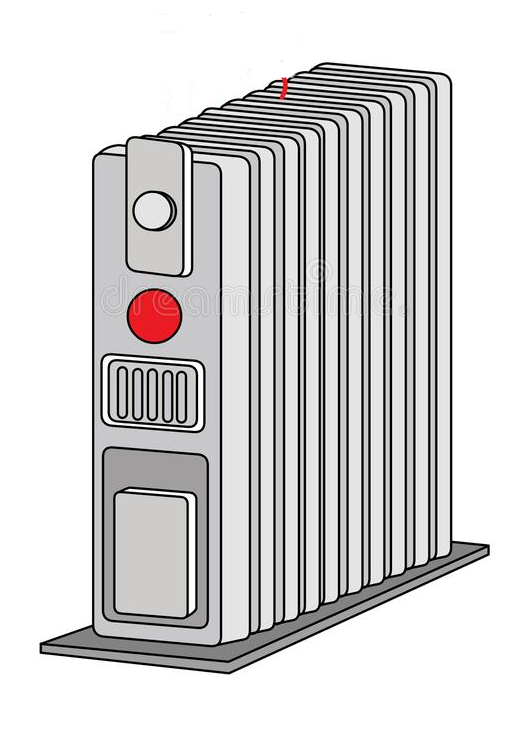
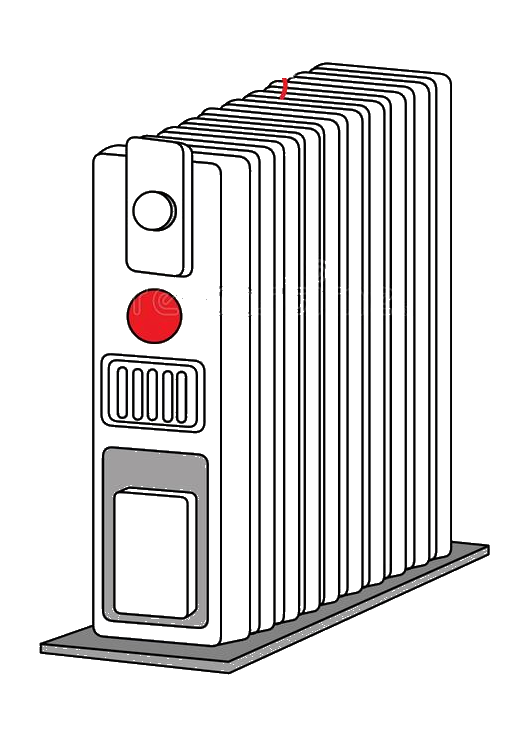
Simplified the code and corrected the transparency of one of a few images.

diff --git a/js/utils.js b/js/utils.js
@@ -21,7 +21,7 @@ function drawLineGraphs() {
 
 
     $.ajax({
-        url: "tempHumidityData.php",
+        url: "DataProcessor.php",
         async: false,
         type: "POST",
         success: function (data, status, xhr) {
@@ -55,35 +55,10 @@ function drawLineGraphs() {
             const chartU = new google.visualization.LineChart(document.getElementById('myGraph2'));
             chartU.draw(responseDataU, options);
 
-            /*const fanData = data.fanData;
-            const heatData = data.heatData;
-            const eheatData = data.eheatData;
+            $("#startTime").html(data.timeData.startTime);
+            $("#endTime").html(data.timeData.endTime);
+            $("#user").html(data.timeData.user);
 
-            if (fanData === 1) {
-                //$('#fan').prop('checked', true);
-                $('#fanStuff').html('<img src="images/running_fan.gif" width="90" height="90">');
-
-            } else {
-                //$('#fan').prop('checked', false);
-                $('#fanStuff').html('<img src="images/not_running_fan.png" width="90" height="90">');
-            }
-
-            if (heatData === 1) {
-                //$('#heat').prop('checked', true);
-                $('#heatStuff').html('<img src="images/burning_flames.gif" width="90" height="90">');
-            } else {
-                //$('#heat').prop('checked', false);
-                $('#heatStuff').html('<img src="images/heater_no_heat.png" width="90" height="90">');
-            }
-
-            if (eheatData === 1) {
-                //$('#eheat').prop('checked', true);
-                $('#eheatStuff').html('<img src="images/eheat_on.png" width="90" height="90">');
-
-            } else {
-                //$('#eheat').prop('checked', false);
-                $('#eheatStuff').html('<img src="images/eheat_cold.png" width="90" height="90">');
-            }*/
         },
         error: function (data) {
             //alert(data.responseText);
@@ -126,21 +101,6 @@ function display() {
 
 }
 
-function processTimeData() {
-
-    $.ajax({
-        url: "timeData.php",
-        dataType: "json",
-        async: false,
-        success: function (data) {
-
-            $("#startTime").html(data.startTime);
-            $("#endTime").html(data.endTime);
-            $("#user").html(data.user);
-
-        }
-    });
-}
 
 function processLogin() {
     $('#login_button').click(function () {
@@ -157,7 +117,7 @@ function processLogin() {
                         alert("Invalid Credentials");
                     } else {
                         $('#loginModal').hide();
-                        //location.reload();
+
                         setTimeout('window.location.href = "settings.php";', 1000);
                     }
                 }

diff --git a/index.php b/index.php
@@ -13,6 +13,7 @@ include 'profile.php';
     <script src="js/gstatic-charts-loader.js"></script>
     <script src="js/popper-1.12.3.min.js"></script>
     <script src="js/bootstrap.min-4.0.0-beta.2.js"></script>
+
     <script src="js/bootstrap-toggle.min-2.2.2.js"></script>
     <script src="js/jquery-ui.min-1.10.2.js"></script>
     <script src="js/jQuery.switchButton.js"></script>
@@ -73,7 +74,7 @@ include 'profile.php';
             setInterval(drawLineGraphs, 360000); //redraw every 6 minutes without refreshing the page
             //setInterval(drawLineGraphs, 1000); // For testing purpose
             display();
-            processTimeData()
+            //processTimeData()
             processLogin();
         });
     </script>
@@ -154,8 +155,10 @@ include 'profile.php';
     <div class="p-1 mb-4 bg-primary rounded-3 border border-secondary">
         <div class="container-fluid py-5">
             <h3 class="display-6 fw-bold text-light">MN 130th Hangar Heater control system</h3>
-            <p class="col-md-8 fs-4 text-light">This website displays temperature, humidity data as well as allows authorized
-                personnel to set the date and time preheating a specific room.</p>
+            <p class="col-md-8 fs-4 text-light">
+                This website displays temperature, humidity data as well as allows authorized
+                personnel to set the date and time for preheating a specific room.
+            </p>
         </div>
     </div>
     </div>
@@ -186,16 +189,15 @@ include 'profile.php';
 
         <div class="col-sm-24">
             <br/>
-            <div style="background:#f1f8e9; border:1px solid black; width:603px;">
+            <!--div style="background:#f1f8e9; border:1px solid black; width:603px;"-->
+            <div class="alert alert-secondary d-flex align-items-center border border-secondary">
 
 
                 <h4>
-                    <b><i>Fan</i></b><span id="fanStuff"></span>
-                    <b><i>Heat</i></b><span id="heatStuff"></span>
-                    <b><i>EHeat</i></b><span id="eheatStuff"></span>
+                    <b>Fan</b><span id="fanStuff"></span>
+                    <b>Heat</b><span id="heatStuff"></span>
+                    <b>EHeat</b><span id="eheatStuff"></span>
                 </h4>
-
-                <!--<h4><b><i>Heat</i></b><span id="heatStuff"></span></h4> -->
 
 
             </div>

diff --git a/dateAndTimeSetter.php b/dateAndTimeSetter.php
@@ -3,14 +3,19 @@ session_start();
 include 'profile.php';
 
 
-$myfile = fopen("/home/pi/html/error.log", "w") or die("file not open");
+//$myfile = fopen("/home/pi/html/error.log", "w") or die("file not open");
 
 $db_handle = NULL;
+$myfile = NULL;
 
 if ($profile == "PROD") {
     $db_handle = new SQLite3('/home/pi/db/capheat.db') or die ("Cannot open the DB");
+    $myfile = fopen("/home/pi/html/error.log", "w") or die("file not open");
+
 } else {
     $db_handle = new SQLite3('db/capheat.db') or die ("Cannot open the DB");
+    $myfile = fopen("error.log", "w") or die("file not open");
+
 }
 
 // if(!$db_handle) die ("Cannot open the DB");
